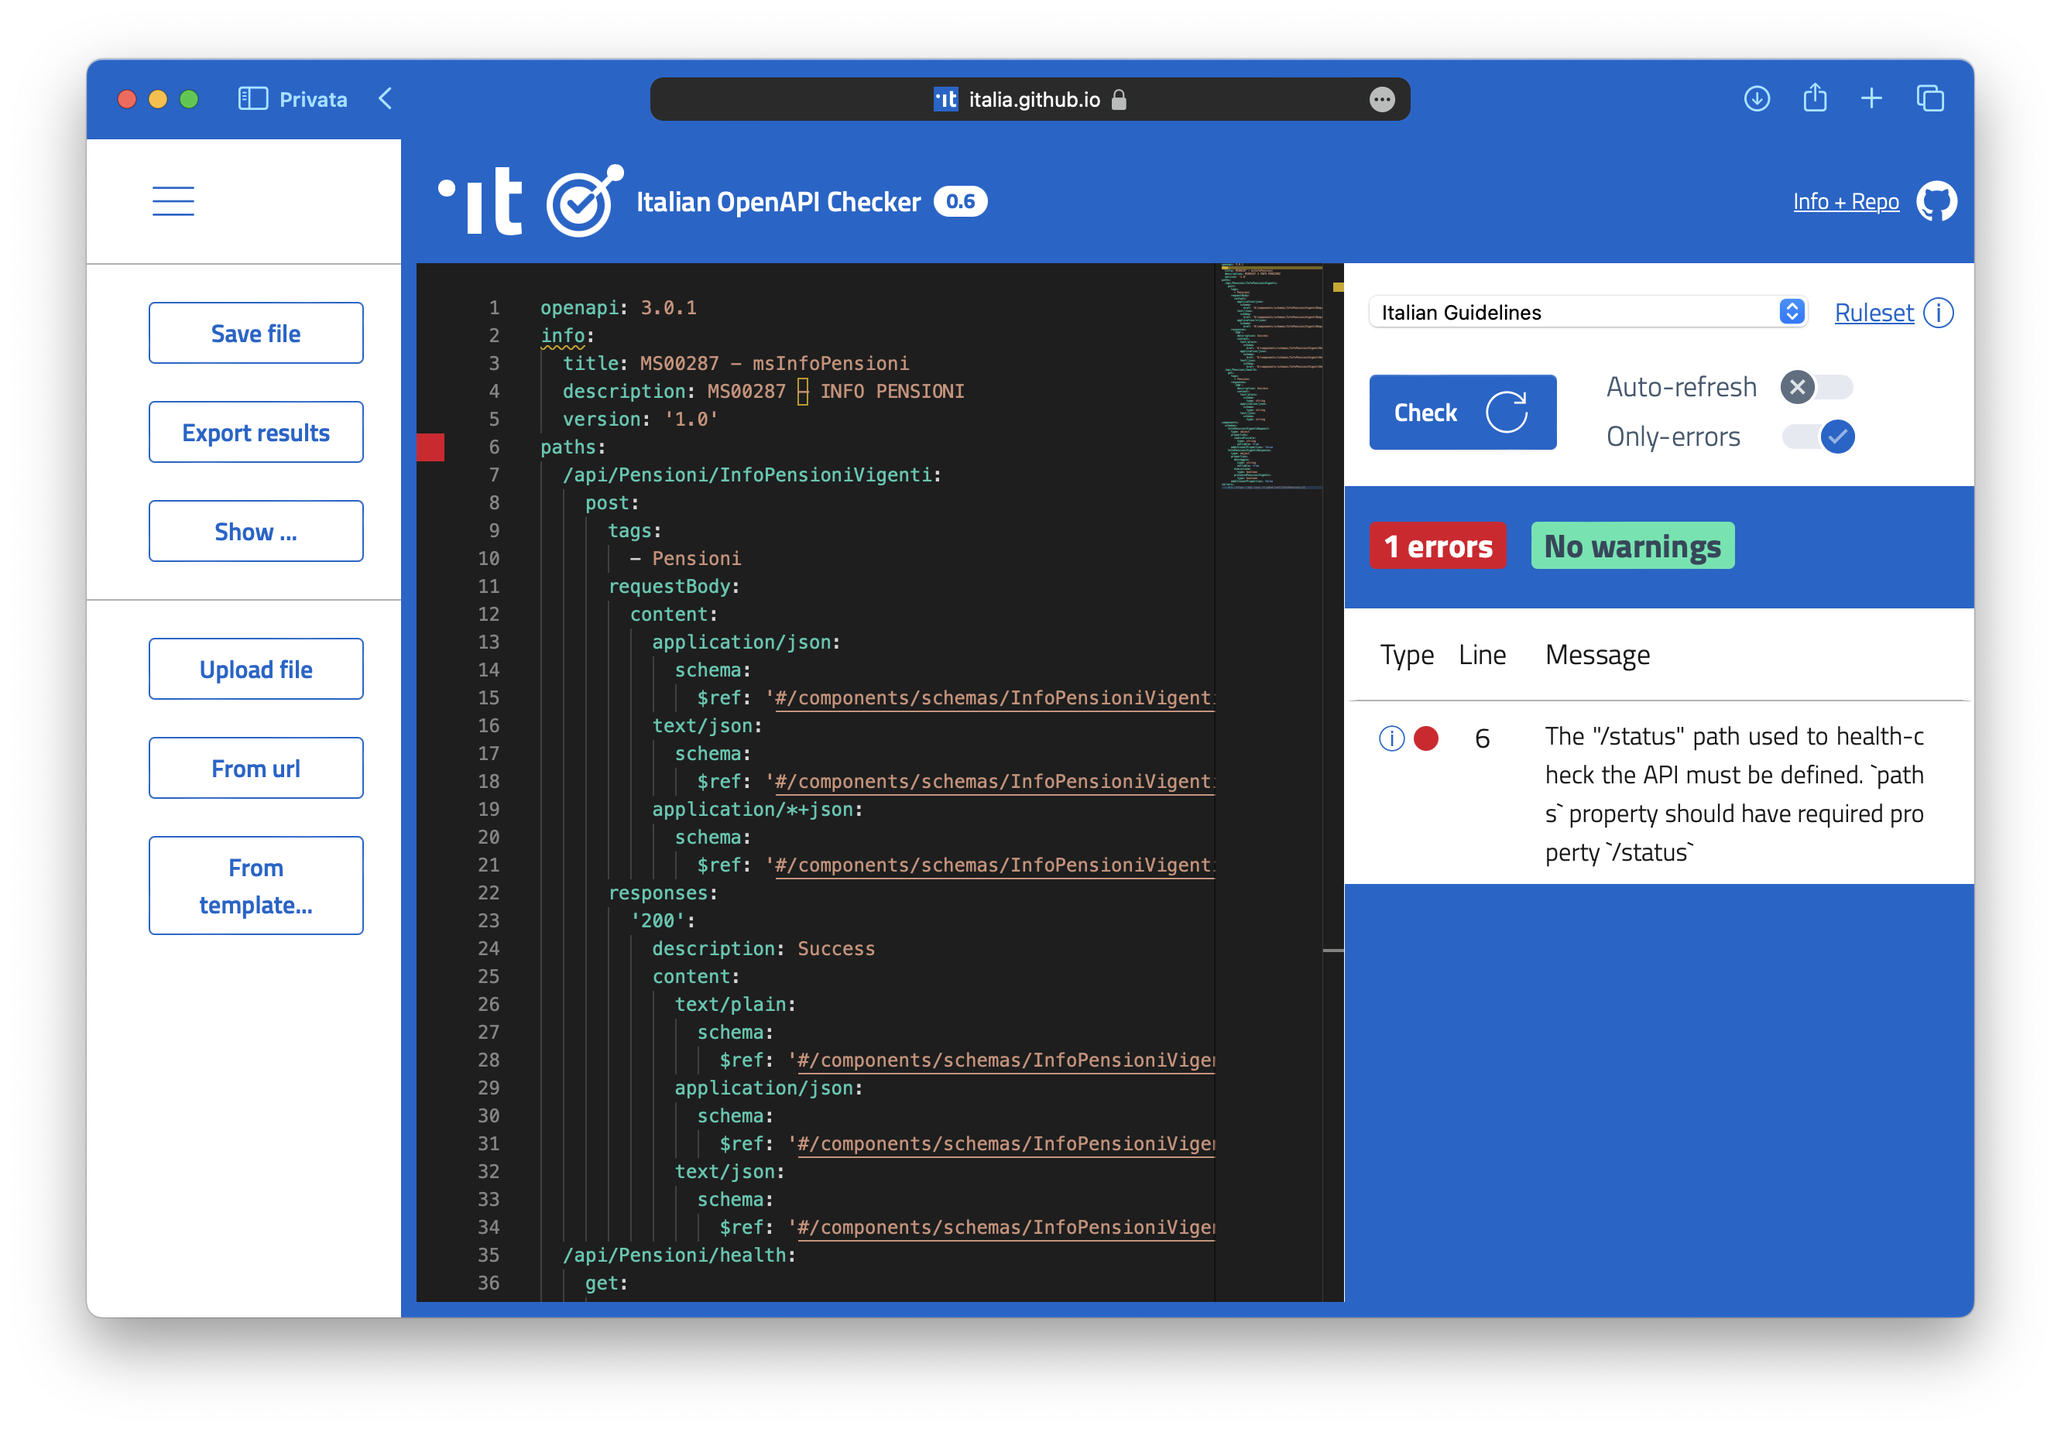
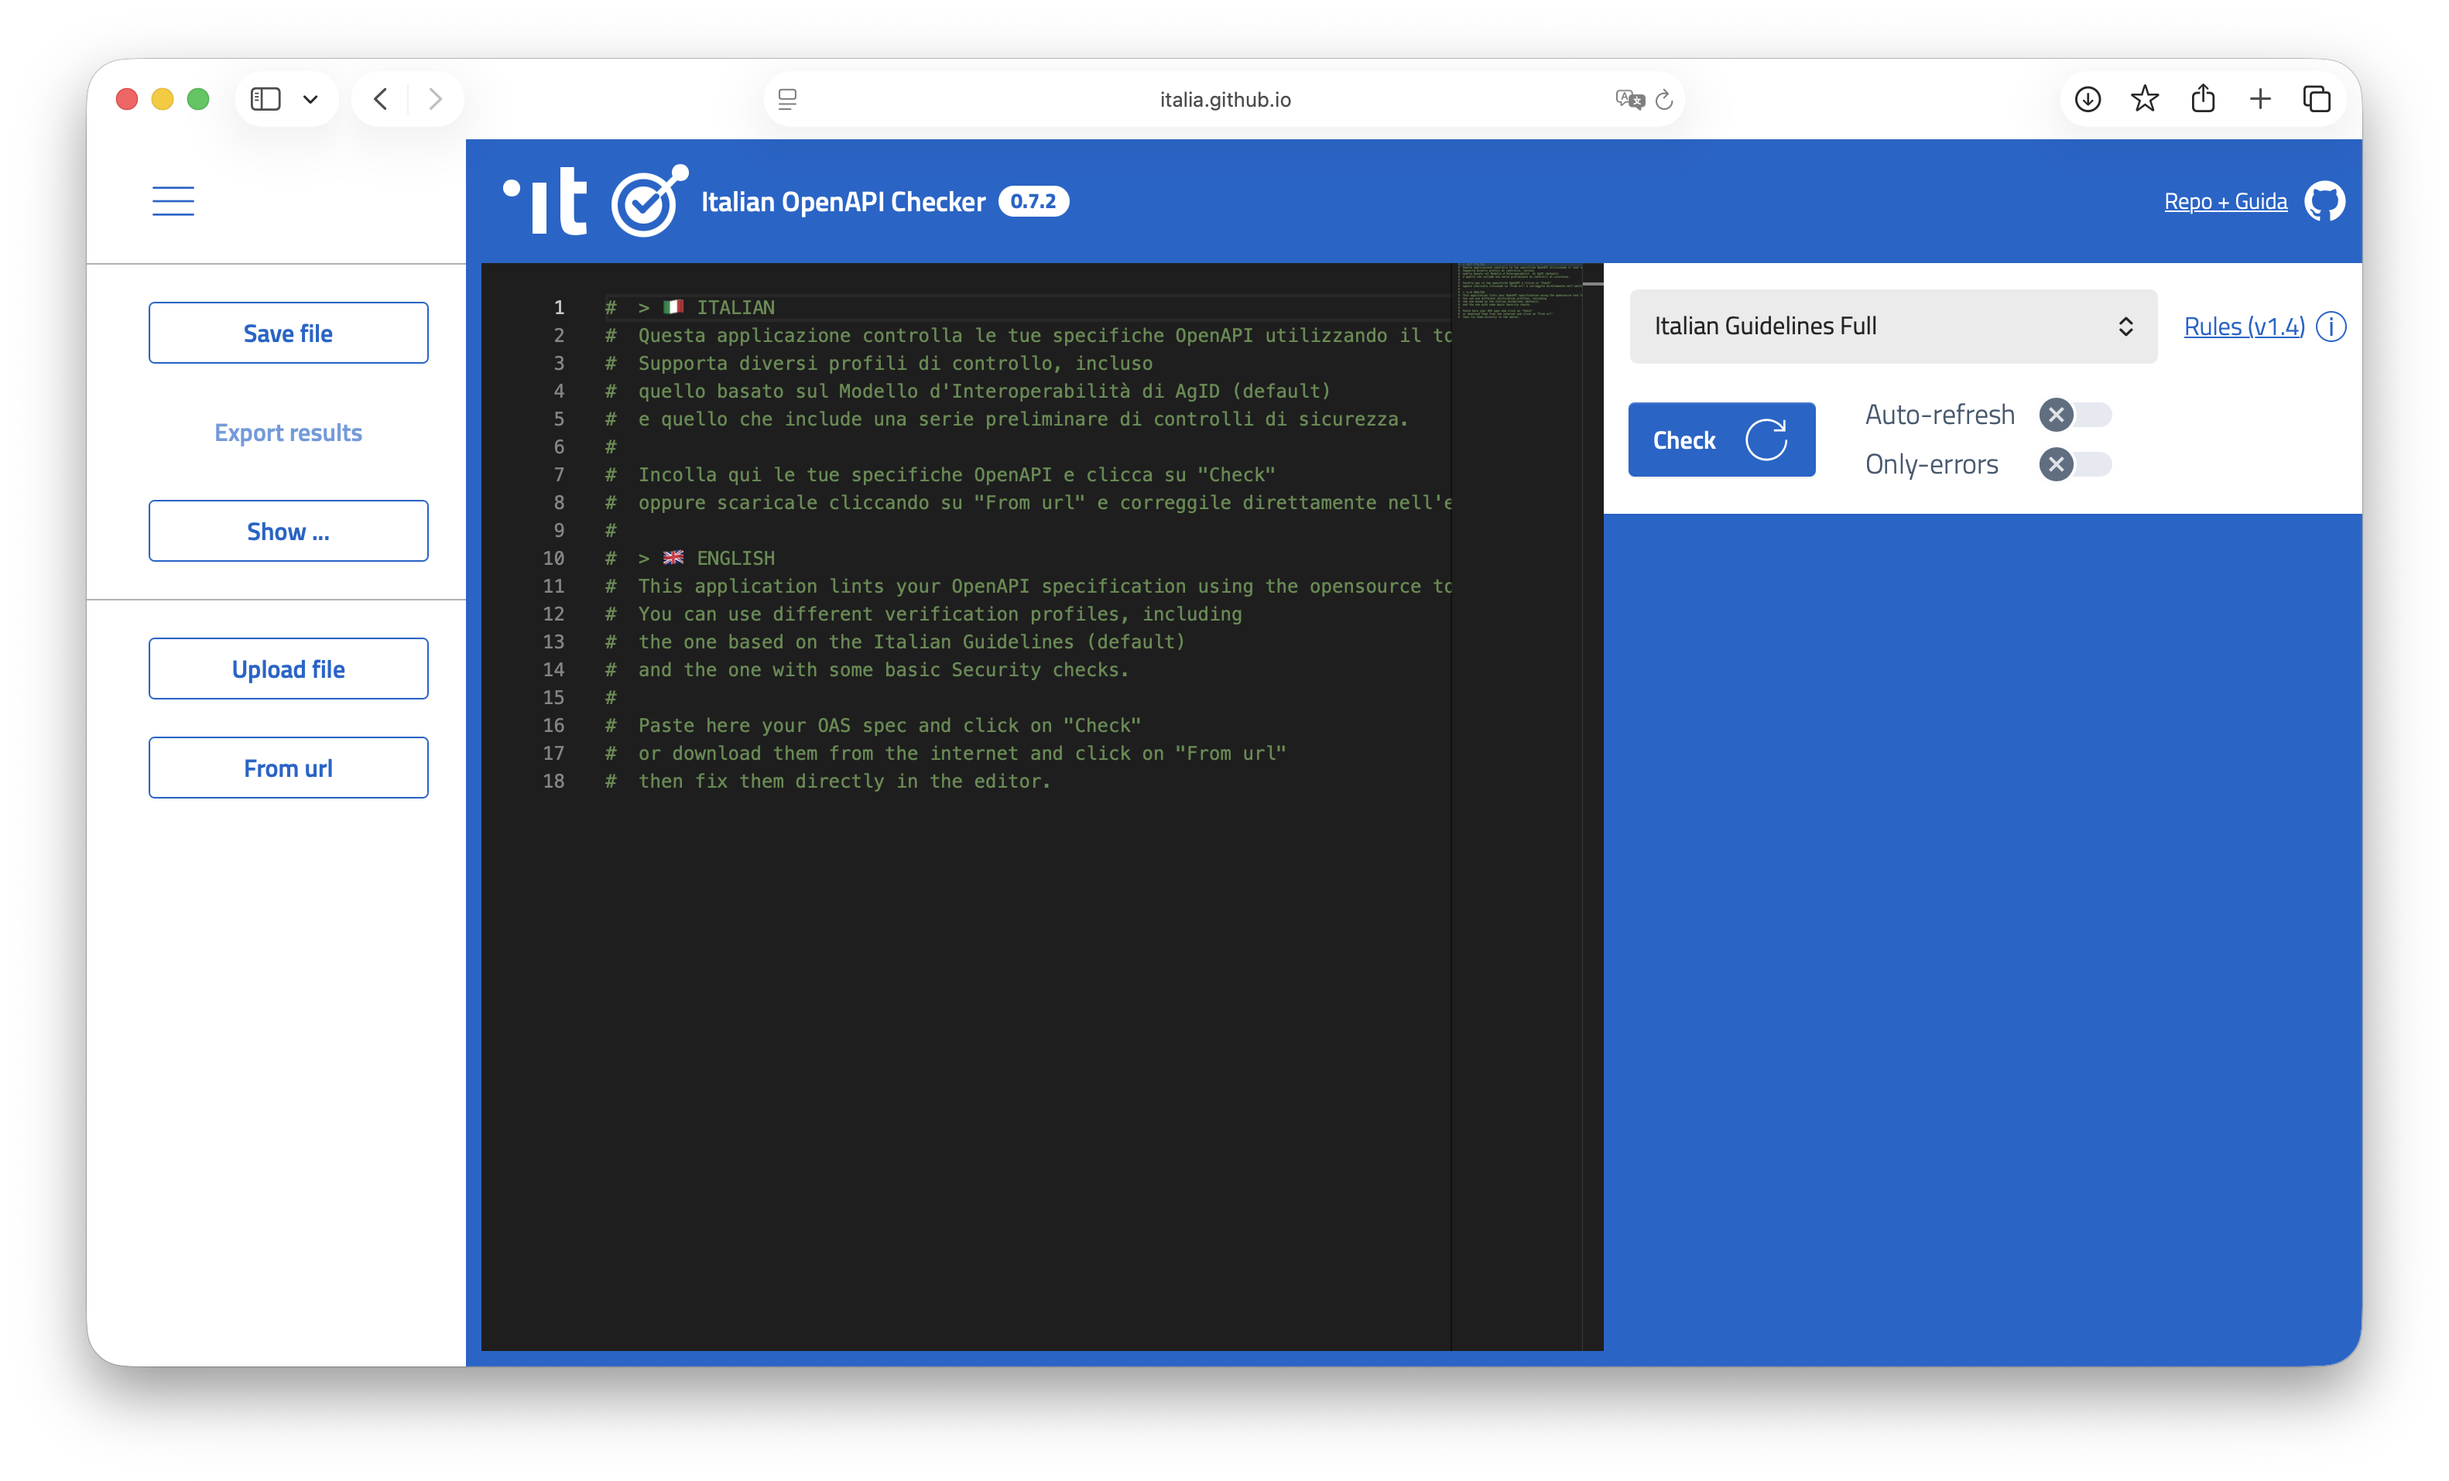
Readme updates.

diff --git a/docs/verification_guide.md b/docs/verification_guide.md
@@ -9,7 +9,7 @@ For more information on the model, you can download the document [here](https://
 ## Verification Methods
 
 ## Premise
-To ensure an OpenAPI interface is compliant with the requirements of the _Model for Technical Interoperability for the PA_, the verification must return zero errors after checking with the rules [spectral-modi.yml](https://github.com/italia/api-oas-checker-rules/releases/latest/download/spectral-modi.yml), also known as **Italian Guidelines**.
+To ensure an OpenAPI interface is compliant with the requirements of the _Model for Technical Interoperability for the PA_, the verification must return zero errors after checking with the rules [spectral.yml](https://github.com/italia/api-oas-checker-rules/releases/latest/download/spectral.yml), also known as **Italian Guidelines Full**.
 
 ## Index of Verification Methods
 
@@ -27,7 +27,7 @@ To ensure an OpenAPI interface is compliant with the requirements of the _Model 
 To perform the verification, simply:
 1. Open an OpenAPI specification file in a text editor
 2. Copy and paste the content into the site's box.
-3. Select the _Italian Guidelines_ ruleset if not already selected.
+3. Select the _Italian Guidelines Full_ ruleset if not already selected.
 4. Click on **Check**.
 
 ![Italian OpenAPI Checker](resources/img/website1.png)
@@ -60,7 +60,7 @@ The extension can be downloaded from the integrated store in your IDE, such as V
 
 From the extension settings in the IDE, you need to configure the rules file. You can choose between two options:
 1. Have the rules file locally on your computer and enter the respective path.
-2. Enter the remote URL (e.g., GitHub) for the rules file, such as the _Italian Guidelines_ [spectral-modi.yml](https://github.com/italia/api-oas-checker-rules/releases/latest/download/spectral-modi.yml).
+2. Enter the remote URL (e.g., GitHub) for the rules file, such as the _Italian Guidelines Full_ [spectral.yml](https://github.com/italia/api-oas-checker-rules/releases/latest/download/spectral.yml).
 
 For other rules files, refer to the [official repository](https://github.com/italia/api-oas-checker-rules/releases).
 
@@ -100,7 +100,7 @@ spectral lint file_path_openapi\
 
 - `file_path_openapi`: the path to the file containing the OpenAPI interface to be verified;
 - `file_path_output`: the path to the JSON output file that will contain all identified errors;
-- `file_path_rules`: the path to the rules file for verification, also remote (such as the Italian Guidelines, [spectral-modi.yml](https://github.com/italia/api-oas-checker-rules/releases/latest/download/spectral-modi.yml)).
+- `file_path_rules`: the path to the rules file for verification, also remote (such as the Italian Guidelines Full, [spectral.yml](https://github.com/italia/api-oas-checker-rules/releases/latest/download/spectral.yml)).
 
 #### Tip
 

diff --git a/docs/guida_verifica.md b/docs/guida_verifica.md
@@ -9,7 +9,7 @@ Per maggiori informazioni sul modello, è possibile scaricare il documento [qui]
 ## Metodi di Verifica
 
 ## Premessa
-Affinché un'interfaccia OpenAPI sia compliant con le prescrizioni del _Modello per l'Interoperabilità Tecnica per la PA_, è necessario che la verifica restituisca zero errori in seguito al controllo con le regole [spectral-modi.yml](https://github.com/italia/api-oas-checker-rules/releases/latest/download/spectral-modi.yml), anche note come **Italian Guidelines**.
+Affinché un'interfaccia OpenAPI sia compliant con le prescrizioni del _Modello per l'Interoperabilità Tecnica per la PA_, è necessario che la verifica restituisca zero errori in seguito al controllo con le regole [spectral.yml](https://github.com/italia/api-oas-checker-rules/releases/latest/download/spectral.yml), anche note come **Italian Guidelines**.
 
 ## Indice dei Metodi di Verifica
 
@@ -60,7 +60,7 @@ Spectral, lo strumento alla base del sito web, è disponibile anche come estensi
 
 Dalle impostazioni dell’estensione nell’IDE, è necessario configurare il file delle regole. Si può scegliere tra due opzioni:
 1. Avere il file delle regole localmente sul proprio computer e inserire il relativo percorso.
-2. Inserire l’URL remoto (es. GitHub) al file delle regole, come quello delle _Italian Guidelines Full_ [spectral-modi.yml](https://github.com/italia/api-oas-checker-rules/releases/latest/download/spectral-modi.yml).
+2. Inserire l’URL remoto (es. GitHub) al file delle regole, come quello delle _Italian Guidelines Full_ [spectral.yml](https://github.com/italia/api-oas-checker-rules/releases/latest/download/spectral.yml).
 
 Per gli altri file delle regole, è possibile far riferimento al [repository ufficiale](https://github.com/italia/api-oas-checker-rules/releases).
 
@@ -94,13 +94,11 @@ spectral lint percorso_file_openapi\
      -v
 ```
 
-![Comando del tool](resources/img/cli2.png)
-
 #### Parametri del Comando
 
 - `percorso_file_openapi`: il percorso al file contenente l’interfaccia OpenAPI da verificare;
 - `percorso_file_output`: il percorso al file JSON di output che conterrà tutti gli errori individuati;
-- `percorso_file_regole`: il percorso al file delle regole per la verifica, anche remoto (come appunto le _Italian Guidelines Full_, [spectral-modi.yml](https://github.com/italia/api-oas-checker-rules/releases/latest/download/spectral-modi.yml)).
+- `percorso_file_regole`: il percorso al file delle regole per la verifica, anche remoto (come appunto le _Italian Guidelines Full_, [spectral.yml](https://github.com/italia/api-oas-checker-rules/releases/latest/download/spectral.yml)).
 
 #### Tip
 
